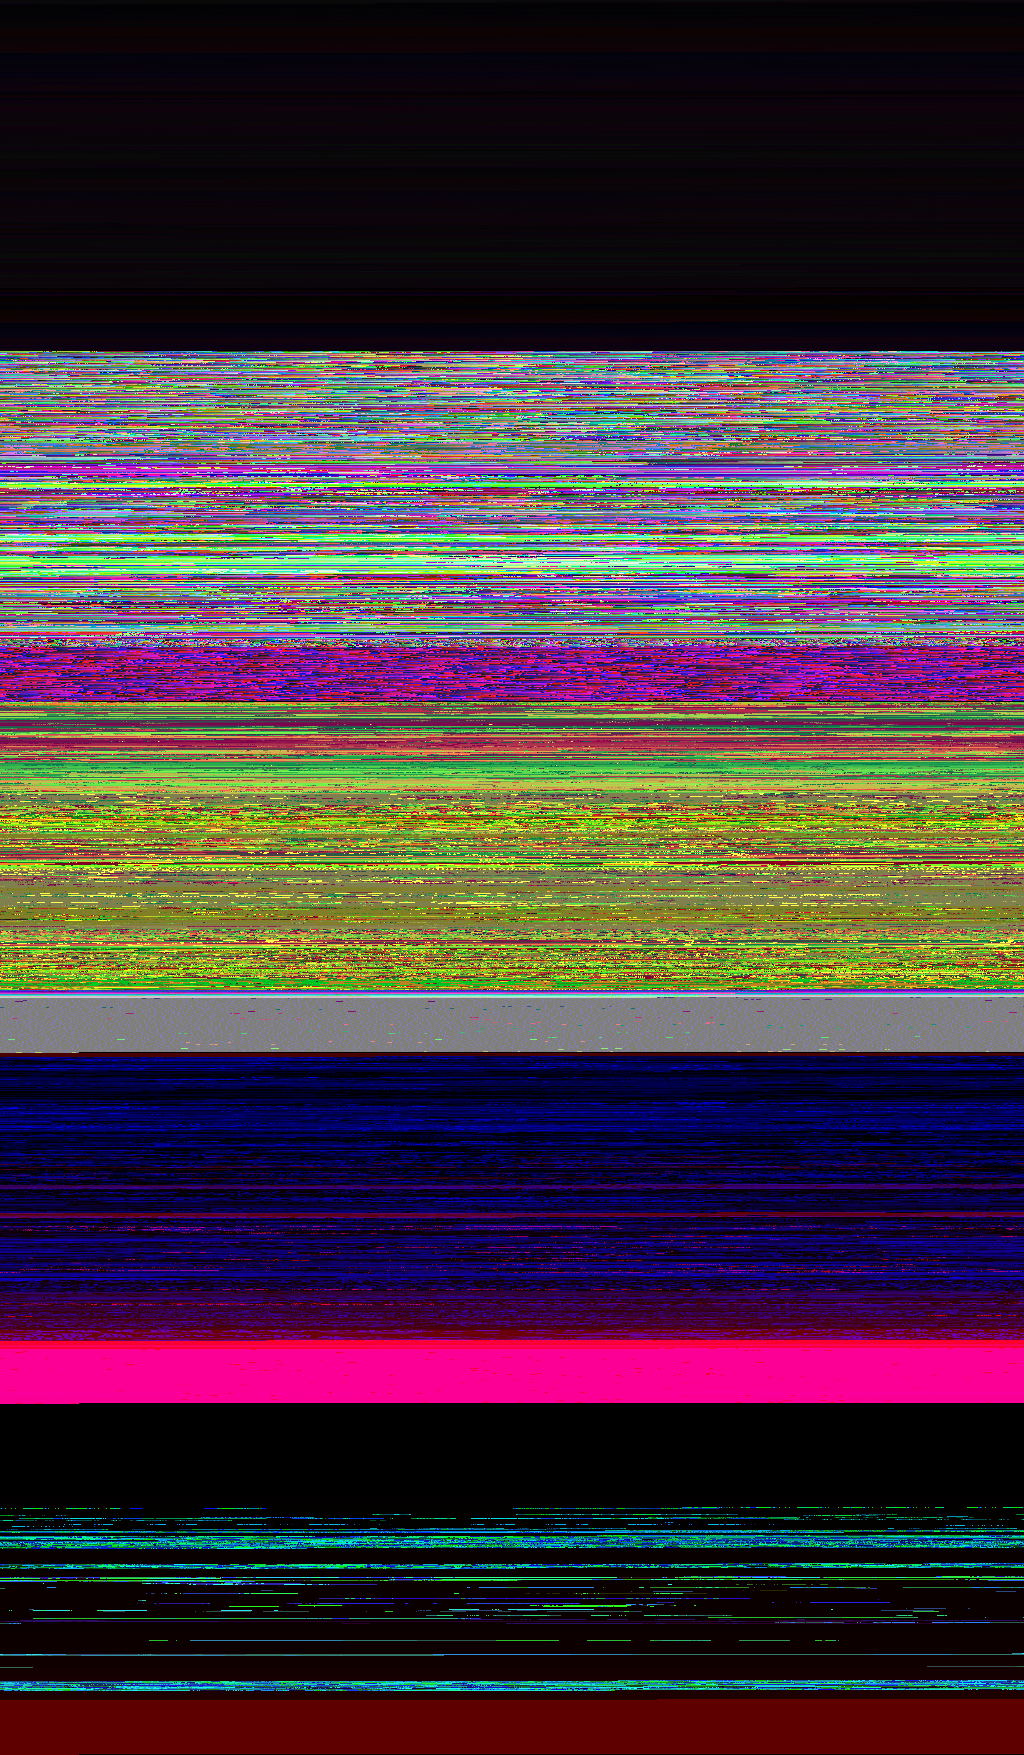
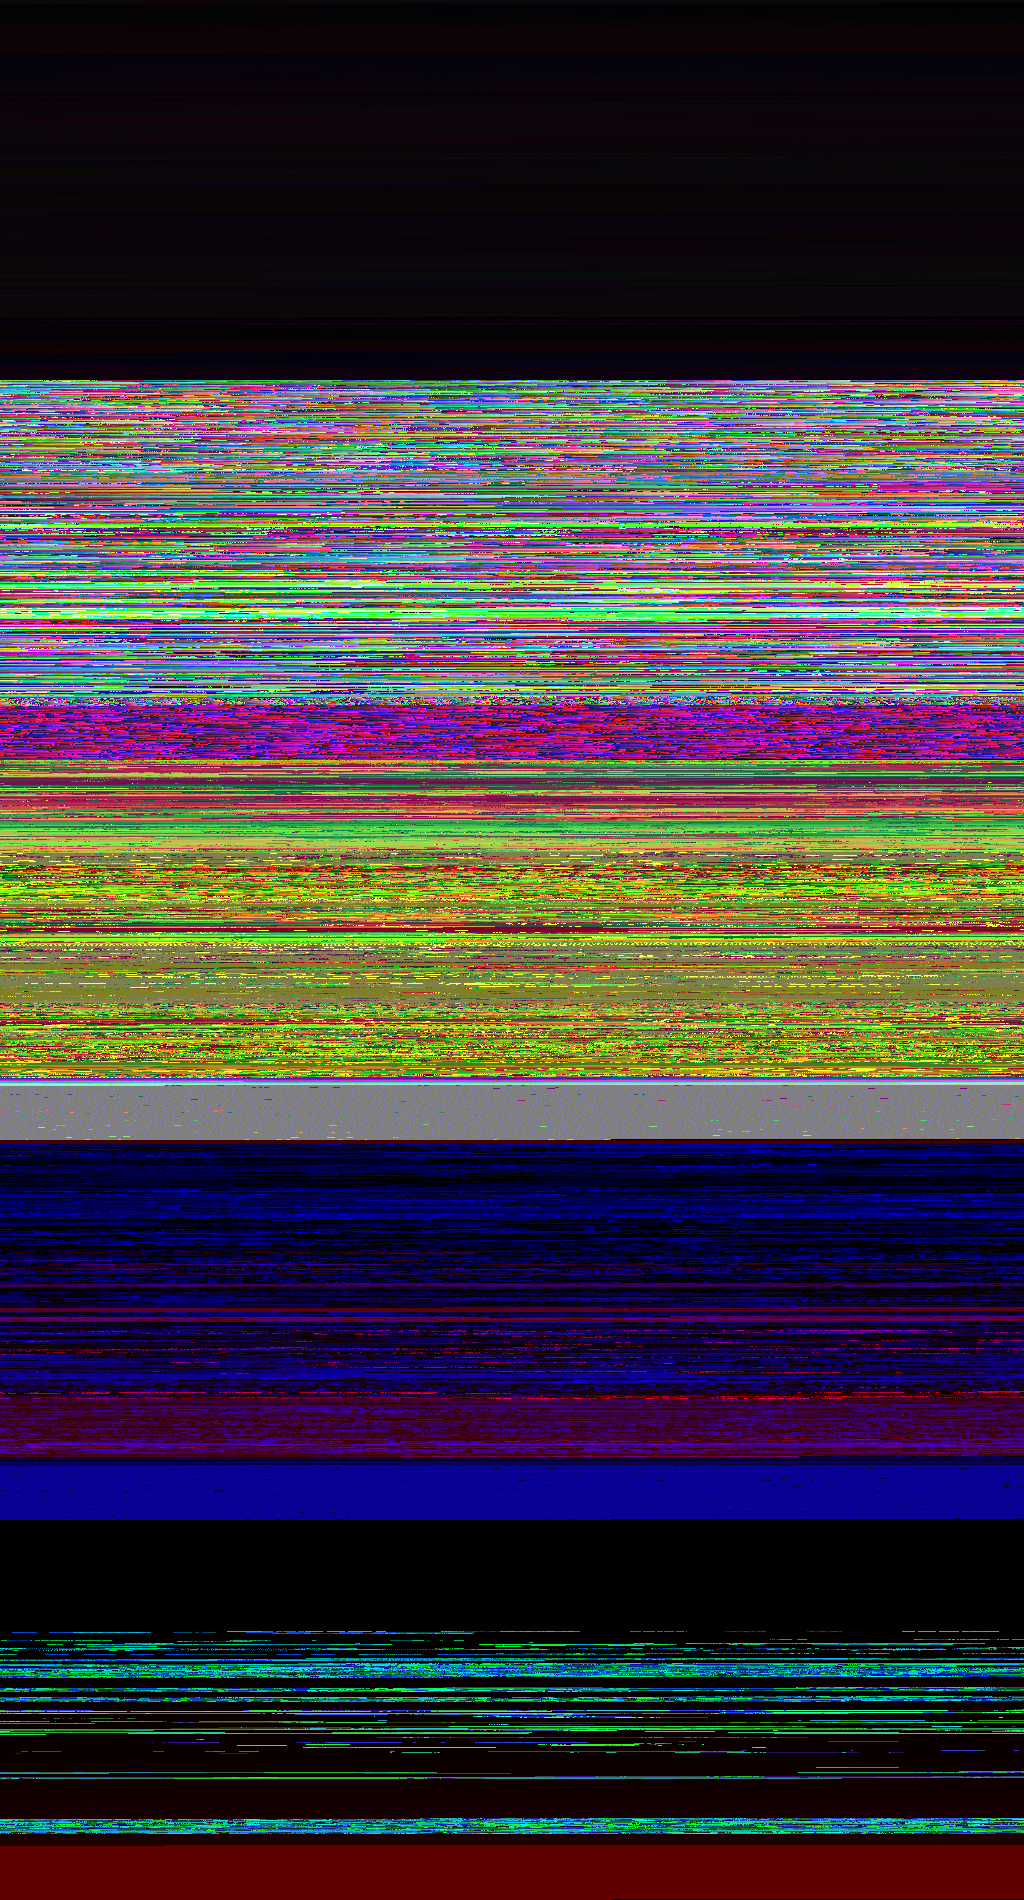
Rebuild the keeper's yard at the hero's true height
The first version of this patch was built for a hero 0.11 world units tall.
He stands 6.4 game units, which is 0.32 there, so the cottage came out about
half the size it should be: the keeper stood as tall as its walls and the
fence reached his ankles. The original house was the right size.

The house is back at its old dimensions and keeps the close-camera detail:
whitewashed stone in a timber frame, finer tiles, stonework and boards, the
yard's denser lawn. The props are remade at his size: a waist-high picket
fence, a well with a roof, a kitchen garden with a scarecrow, a lamp post,
a bench, pots, a woodpile under cover, an apple tree behind the house.
The area is 388,707 dabs (300,343 before the patch).

W.navFine stays, for a different reason than first given: the stairs were
never oversized. Anything up to 0.095 high is a step, so flowers beside a
fence's rails, pots and a bed's frame were climbed like a stair. It now
covers three circles (house front, well, garden) that leave the stairs out.
The README and the baker's comment are corrected to match.

Claude-Session: https://claude.ai/code/session_013pX57dgjiL8DtW4QwtRfE8

diff --git a/README.md b/README.md
@@ -219,24 +219,27 @@ no ground, holds an obstacle, or steps too far to its neighbour.
 ### Sculpting for the game's camera
 
 The game draws 9 pixels to a game unit: 180 to a world unit of Lighthouse rock, where the diorama itself was sculpted at 34. Seen
-that close, a diorama is large flat patches. The keeper's house and yard (`scenes/ink/lighthouse.cjs`, "sculpted for the game
-camera") show the other way to build: pieces sized to the hero (0.11 world units tall there), dabs laid about 2.5 times closer
-(`res` of a third of a diorama pixel, and `px` of the same handed to `S.window`, `S.door`, `S.barrel`, `S.crate` and
-`S.canopy`), and patterns with cells of 1 to 4 diorama pixels (`tile: [2, 2]`, `stone: [3, 2]`, `width: 1`, a lawn with
-`cell: 2`). That patch added about a fifth to the area's dabs.
+that close, a diorama is large flat patches. Its sizes are right (a character stands 6.4 game units, 0.32 world units there,
+and the keeper's door is 0.34 tall); what it lacks is detail. The keeper's house and yard (`scenes/ink/lighthouse.cjs`,
+"sculpted for the game camera") show how to give it some: dabs laid about 2.5 times closer (`res` of a third of a diorama
+pixel, and a `px` of half a diorama pixel handed to `S.window`, `S.door`, `S.barrel`, `S.crate` and `S.canopy`), patterns
+with cells of 1 to 4 diorama pixels (`tile: [2, 2]`, `stone: [3, 2]`, `width: 1`, a lawn with `cell: 2`), and more small
+things a screen: a timber frame on the walls, a well, a kitchen garden, pots, a lamp post. That patch added about three
+tenths to the area's dabs.
 
 Two things the baker needs to know about such a place:
 
-- The walk map's heights are a diorama's (a stair tread there rises most of a hero's height), so hero-sized things would be
-  climbed like stairs. A scene marks the places it built small with `W.navFine = [{ at: [x, z], r, step, low }]` (world
-  units): inside one, a step is `step` high and anything standing `low` above the ground blocks.
+- On the walk map anything up to 0.095 world units high is a step (that is what lets the party climb the stairs), so low
+  things standing together are climbed like a stair: flowers beside a fence's rails, a pot, the frame of a garden bed. A
+  scene marks the places it furnished this closely with `W.navFine = [{ at: [x, z], r, step, low }]` (world units): inside
+  one, a step is `step` high and anything standing `low` above the ground blocks. Keep stairs outside them.
 - A pack holds 31 ramps at most (a dab's ramp shares a byte with its flags). The baker stops if a scene uses more: give
   materials that share colours the same `r`.
 
 ## What is not here yet
 
-- Only the keeper's yard on Lighthouse rock is sculpted at the hero's size; the rest of the islet, its stairs included, is still
-  a diorama seen close.
+- Only the keeper's yard on Lighthouse rock has the detail the close camera wants; the rest of the islet is still a diorama
+  seen close.
 
 - No shops or sound.
 - Items can only be used in battle: HP and MP are full again at the start of every fight, so there is nothing to mend
